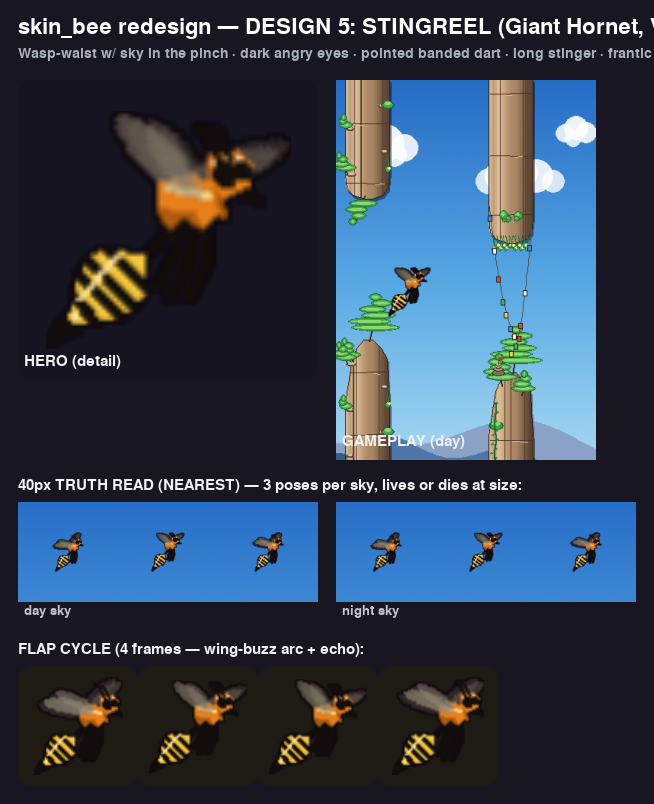
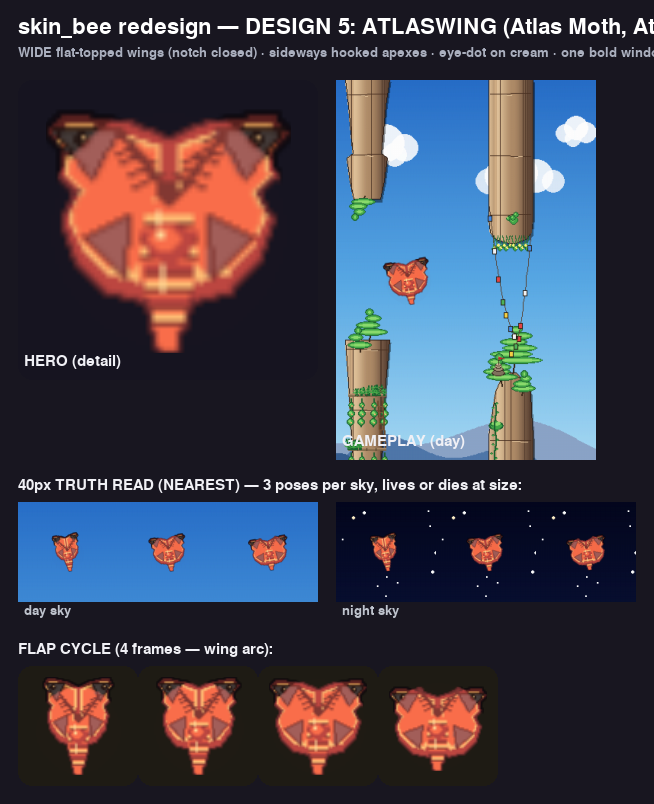
bug/bee butterfly R2: SUNSET MOTH + ATLASWING updates
Claude-Session: https://claude.ai/code/session_01K6KPJsdtoYoDR2za2Jqnmo

diff --git a/tools/bee_candidates/design_5.py b/tools/bee_candidates/design_5.py
@@ -1,12 +1,15 @@
 """BUG/INSECT redesign — design_5 ATLASWING (Atlas moth, Attacus atlas).
 
-The wings are the whole story. Two enormous ANGULAR sails fill the canvas
-wall-to-wall; each forewing apex hooks out into a pointed SNAKE-HEAD tip with a
-dark eye-dot — the Atlas moth's cobra-mimicry tell and the only jagged,
-non-rounded silhouette in the set. Big cream TRIANGULAR WINDOWS are punched
-semi-transparent so the day sky bleeds faintly through them (a technique unique
-to this candidate). A stout rust/ochre banded body and broad feathery comb
-antennae seat the read as a moth, not a butterfly.
+The wings are the whole story. Two WIDE ANGULAR sails spread horizontally,
+their leading edges rising to nearly meet along the top axis so the silhouette
+reads as one flat-topped moth — never two peaked "ears" over a head. Each
+forewing corner hooks out sideways into a pointed SNAKE-HEAD tip with a dark
+eye-dot riding a cream field — the Atlas moth's cobra-mimicry tell and the only
+jagged, non-rounded silhouette in the set. One bold cream TRIANGULAR WINDOW per
+wing is punched semi-transparent so the day sky bleeds through it. A deep-maroon
+outer margin wraps the whole edge for value pop on both bright and dark skies. A
+stout rust/ochre banded body and broad feathery comb antennae — swept clear of
+the wing junction — seat the read as a moth, not a butterfly.
 
 Scratch exploration only — NOT registered in store_skins.BUILDERS. Production
 art stays untouched until a winner is picked.
@@ -17,10 +20,10 @@ from game.parrot import _WING_ANGLES, _add_outline, _aaellipse
 
 COMPOSITE_W, COMPOSITE_H = 64, 84
 BCX, BCY = 32, 44          # thorax centre
-# Head kept ON the body axis: a dorsal-spread moth reads strongest symmetric,
-# and a centred head lets the two hooked forewings mirror cleanly at 40px.
-HCX, HCY = 32, 27
-CROWN_Y = 14
+# Head kept ON the body axis, but seated LOW (below where the two forewings
+# close flat at the top) so it can never read as a face between two ear-peaks.
+HCX, HCY = 32, 29
+CROWN_Y = 13
 
 # ── palette ──────────────────────────────────────────────────────────────────
 RUST   = (155, 74, 42)     # #9B4A2A Atlas Rust — DOMINANT wing field
@@ -30,7 +33,7 @@ CREAM  = (243, 230, 200)   # #F3E6C8 translucent triangular window panes
 DARK   = (36, 21, 18)      # #241512 snake-tip / eye-dot / body outline
 OCHRE_HI = (238, 190, 128) # warm highlight for the body gradient / catch-lights
 
-WINDOW_ALPHA = 100         # low enough that sky bleeds faintly through the panes
+WINDOW_ALPHA = 55          # low enough that sky visibly bleeds through the panes
 
 
 def _new():
@@ -44,36 +47,38 @@ def _flap(a):
 
 # Right-wing outer contour at the full-open down-stroke. Straight polygon
 # segments keep the whole outline ANGULAR — the deliberate non-rounded odd-one-
-# out of the set. The forewing throws its leading edge up and out to x=63 and
-# HOOKS: the apex spikes to a snake-head point (index 5) then cuts back under
-# itself, leaving a cobra-head silhouette that survives the shrink. The
-# hindwing below is large but still faceted, not an egg. Inner edges sit ~1px
-# off the body axis so the mirrored pair nearly touches into one moth.
+# out of the set. The leading edge rises to the TOP AXIS (index 0 sits on x=32,
+# high) so the mirrored pair closes into one flat-topped moth with no central
+# V-notch — that kills the fox/cat-face pareidolia. The forewing corner then
+# hooks SIDEWAYS to the widest point (index 4) and cuts back under itself
+# (index 5, a concave undercut), leaving a cobra-head apex. The hindwing below
+# is large but still faceted, not an egg.
 _WING_R = [
-    (33, 30),   # 0  inner top, ~1px off axis
-    (43, 20),   # 1  forewing leading edge
-    (47, 12),   # 2  leading rise
-    (55,  9),   # 3  toward the apex
-    (60,  8),   # 4  apex base — start of the hook
-    (63,  3),   # 5  SNAKE-HEAD TIP (eye-dot lands here)
-    (61, 11),   # 6  hook cuts back under itself
-    (58, 16),   # 7  forewing outer
-    (57, 23),   # 8  forewing trailing
-    (54, 28),   # 9  notch between fore- and hind-wing
-    (58, 34),   # 10 hindwing outer shoulder
-    (56, 45),   # 11 hindwing outer
-    (48, 55),   # 12 hindwing lower outer
-    (40, 58),   # 13 hindwing bottom lobe
-    (34, 51),   # 14 inner bottom
-    (33, 40),   # 15 inner mid, back to the axis
+    (32, 19),   # 0  inner top ON the axis, high — mirror closes flat here
+    (43, 15),   # 1  leading edge sweeps out nearly level
+    (53, 13),   # 2  toward the apex
+    (60, 13),   # 3  apex base
+    (63, 17),   # 4  SNAKE-HEAD TIP — hooks sideways to the widest point
+    (59, 21),   # 5  concave undercut back beneath the tip
+    (60, 27),   # 6  forewing trailing
+    (55, 31),   # 7  shallow notch between fore- and hind-wing
+    (59, 38),   # 8  hindwing outer shoulder
+    (56, 47),   # 9  hindwing outer
+    (48, 55),   # 10 hindwing lower outer
+    (39, 57),   # 11 hindwing bottom lobe
+    (34, 50),   # 12 inner bottom
+    (32, 33),   # 13 inner mid, back on the axis
 ]
 
-# Cream window triangles in the same right-wing space: one big pane in the
-# forewing, one in the hindwing. Punched semi-transparent so they read as gaps
-# in the wing where the sky shows through.
+# The snake-head eye rides HERE — a point that sits squarely inside the forewing
+# cream window so the dark pupil has cream contrast, not lost on the dark tip.
+_EYE_R = (55, 19)
+
+# One bold cream window per wing (fewer/bigger survives 40px). The forewing pane
+# reaches up to cradle the eye; the hindwing pane is a single clear triangle.
 _WINDOWS_R = [
-    [(44, 21), (55, 15), (50, 27)],   # forewing pane, pointing to the apex
-    [(43, 37), (53, 41), (44, 49)],   # hindwing pane
+    [(45, 16), (62, 16), (52, 28)],   # forewing pane — the eye rides this cream
+    [(42, 37), (55, 42), (44, 52)],   # hindwing pane
 ]
 
 
@@ -115,33 +120,36 @@ def _punch_windows(ws, tris):
     for tri in tris:
         pygame.draw.polygon(reducer, (255, 255, 255, WINDOW_ALPHA), tri)
     ws.blit(reducer, (0, 0), special_flags=pygame.BLEND_RGBA_MIN)
+    # A crisp 1px dark rim re-opaques each pane's border so the translucent panes
+    # stay defined windows instead of bleeding into the rust field at 40px.
+    for tri in tris:
+        pygame.draw.polygon(ws, DARK, tri, 1)
 
 
 def _draw_wing(surf, side, spread, nx):
     margin = _transform(_WING_R, side, spread, nx)
 
-    # Concentric rings = the Atlas moth's banding, but RUST has to dominate: a
-    # deep-maroon margin, then only a THIN ochre submarginal band, then the
-    # broad rust field that owns most of the wing. Windows punch that field.
+    # Concentric rings = the Atlas moth's banding. A WIDE deep-maroon outer
+    # margin now carries the whole edge dark (that's what holds the angular
+    # silhouette against BOTH bright day and dark night sky), then a thin ochre
+    # submarginal band, then the broad rust field. Windows punch that field.
     ws = _new()
     pygame.draw.polygon(ws, MAROON, margin)
-    pygame.draw.polygon(ws, OCHRE, _inset(margin, 0.07))
-    pygame.draw.polygon(ws, RUST, _inset(margin, 0.15))
+    pygame.draw.polygon(ws, OCHRE, _inset(margin, 0.13))
+    pygame.draw.polygon(ws, RUST, _inset(margin, 0.24))
 
     tris = [_transform(t, side, spread, nx) for t in _WINDOWS_R]
     _punch_windows(ws, tris)
     surf.blit(ws, (0, 0))
 
-    # The snake-head eye at the hooked apex sells the cobra mimicry — a cream
-    # sclera ring around a dark pupil with a warm catch, riding the transformed
-    # apex vertex so it tracks the hook through the flap.
-    ex, ey = margin[5]
+    # The snake-head eye sells the cobra mimicry — a dark pupil with a warm
+    # catch, sitting on the forewing CREAM field (transformed with the wing so
+    # it tracks the hook through the flap) for hard contrast at 40px.
+    ex, ey = _transform([_EYE_R], side, spread, nx)[0]
     ex, ey = int(round(ex)), int(round(ey))
-    cy = ey + 3
-    if 1 <= ex < COMPOSITE_W - 1 and 1 <= cy < COMPOSITE_H - 1:
-        pygame.draw.circle(surf, CREAM, (ex, cy), 3)
-        pygame.draw.circle(surf, DARK, (ex, cy), 2)
-        surf.set_at((ex, cy - 1), OCHRE_HI)
+    if 1 <= ex < COMPOSITE_W - 1 and 1 <= ey < COMPOSITE_H - 1:
+        pygame.draw.circle(surf, DARK, (ex, ey), 2)
+        surf.set_at((ex, ey - 1), OCHRE_HI)
 
 
 # Stout fusiform body: (y, half-width) keyframes, swelling at the thorax and
@@ -205,23 +213,24 @@ def _feather(surf, base, tip, teeth):
 
 
 def _draw_head(surf):
-    # Broad feathery antennae first, sweeping up and out to the crown.
-    _feather(surf, (HCX - 2, HCY - 2), (HCX - 10, CROWN_Y), 5)
-    _feather(surf, (HCX + 2, HCY - 2), (HCX + 10, CROWN_Y), 5)
-    # Small dark-rust head bead with two pin eyes and a warm catch.
-    pygame.draw.circle(surf, MAROON, (HCX, HCY), 4)
-    pygame.draw.circle(surf, DARK, (HCX - 2, HCY), 1)
-    pygame.draw.circle(surf, DARK, (HCX + 2, HCY), 1)
-    surf.set_at((HCX - 1, HCY - 2), OCHRE_HI)
+    # Feathery antennae swept OUT over the forewing shoulders — kept well clear
+    # of the wing junction so they can never read as ears above a face.
+    _feather(surf, (HCX - 2, HCY - 1), (HCX - 13, CROWN_Y), 5)
+    _feather(surf, (HCX + 2, HCY - 1), (HCX + 13, CROWN_Y), 5)
+    # A small DARK thorax knob — deliberately recessive (no pin eyes, no
+    # catch-light) so the two hooked apex eye-dots own the focal hierarchy
+    # instead of competing with a bright central "face" bead.
+    pygame.draw.circle(surf, DARK, (HCX, HCY), 3)
 
 
 def _apply_glow(surf):
-    # Faint warm halo so the rust pops on bright day sky. Additive and applied
-    # AFTER the outline so the outline traces only the crisp moth silhouette.
+    # A whisper of a halo — MAROON-tinted and low-alpha so it never cooks the
+    # earthy maroon into neon orange. The deep-maroon outer margin does the real
+    # silhouette-holding work; this only softens the edge against bright sky.
     glow = pygame.Surface(surf.get_size(), pygame.SRCALPHA)
-    for r, a in ((30, 6), (20, 7), (12, 7)):
+    for r, a in ((30, 3), (20, 3), (12, 4)):
         g = pygame.Surface((r * 2, r * 2), pygame.SRCALPHA)
-        pygame.draw.circle(g, (*RUST, a), (r, r), r)   # rust, not ochre — keep it warm-red not yellow
+        pygame.draw.circle(g, (*MAROON, a), (r, r), r)
         glow.blit(g, (BCX + 2 - r, BCY - 4 - r))   # +2 for _add_outline pad
     surf.blit(glow, (0, 0), special_flags=pygame.BLEND_RGBA_ADD)
 
@@ -229,7 +238,7 @@ def _apply_glow(surf):
 def _build_frame(wing_angle_deg):
     surf = _new()
     f = _flap(wing_angle_deg)
-    spread = int(f * 16)            # lift the wings as the stroke rises
+    spread = int(f * 11)            # lift the wings as the stroke rises (top-safe)
     nx = 1.0 - 0.28 * f             # narrow them toward edge-on on the up-stroke
 
     _draw_wing(surf, -1, spread, nx)

diff --git a/tools/bee_candidates/_render_design_5.py b/tools/bee_candidates/_render_design_5.py
@@ -15,7 +15,13 @@ from game import biome
 from game.draw import get_sky_surface_biome
 from game.config import W as GW, H as GH, GROUND_Y
 
-OUT = "/home/user/skybit/docs/store_redesign/animal/bee/design_5/round_1.png"
+OUT = "/home/user/skybit/docs/store_redesign/animal/bee/design_5/round_2.png"
+
+# Real, DISTINCT skies for the truth read: bright DAY vs genuinely dark NIGHT.
+# (R1 rendered both on the same blue because get_sky_surface_biome caches by the
+# phase-bucket arg and both panels passed bucket 0.)
+DAY_PHASE = 0.0
+NIGHT_PHASE = 0.64375   # the NIGHT keyframe — sky_top (5,8,30), truly dark
 
 # Three poses across the flap cycle so the truth read exposes whether the
 # hooked-wing silhouette survives BOTH the shrink and the wing animation.
@@ -35,7 +41,9 @@ def _truth_swatch(box, phase, frame_idx):
     NEAREST so the shrunk pixels are judgeable — the read the player gets. The
     translucent windows must show a hint of sky through them at this size."""
     pal = biome.palette_for_phase(phase)
-    sky = get_sky_surface_biome(GW, GH, GROUND_Y, pal, 0)
+    # Bucket the sky by phase so day and night get separate cache entries — the
+    # R1 bug was passing bucket 0 for both, which reused the day surface.
+    sky = get_sky_surface_biome(GW, GH, GROUND_Y, pal, biome.phase_bucket(phase))
     swatch = pygame.transform.smoothscale(
         sky.subsurface((0, 10, 120, 120)).copy(), (box, box))
     frame = _frame(build, frame_idx, 10.0)
@@ -78,9 +86,9 @@ def main():
     sheet = pygame.Surface((W, H))
     sheet.fill((24, 22, 32))
 
-    _label(sheet, "skin_bee redesign — DESIGN 5: ATLASWING (Atlas Moth, Attacus atlas) — R1",
+    _label(sheet, "skin_bee redesign — DESIGN 5: ATLASWING (Atlas Moth, Attacus atlas) — R2",
            PAD, 16, sz=22, col=(255, 255, 255))
-    _label(sheet, "Angular snake-head hooked forewings · dark eye-dot tips · semi-transparent cream windows · banded rust body · feathery comb antennae",
+    _label(sheet, "WIDE flat-topped wings (notch closed) · sideways hooked apexes · eye-dot on cream · one bold window/wing · wide maroon margin · recessive body knob",
            PAD, 46, sz=13, col=(170, 175, 190))
 
     top = 80
@@ -95,10 +103,10 @@ def main():
     _label(sheet, "40px TRUTH READ (NEAREST) — 3 poses per sky, lives or dies at size:",
            PAD, trow - 24, sz=15)
     for i, fi in enumerate(TRUTH_POSES):
-        sheet.blit(_truth_swatch(TR, 0.0, fi), (PAD + i * TR, trow))
+        sheet.blit(_truth_swatch(TR, DAY_PHASE, fi), (PAD + i * TR, trow))
     night_x = PAD + 3 * TR + PAD
     for i, fi in enumerate(TRUTH_POSES):
-        sheet.blit(_truth_swatch(TR, 0.5, fi), (night_x + i * TR, trow))
+        sheet.blit(_truth_swatch(TR, NIGHT_PHASE, fi), (night_x + i * TR, trow))
     _label(sheet, "day sky", PAD + 6, trow + TR + 2, sz=13, col=(190, 195, 205))
     _label(sheet, "night sky", night_x + 6, trow + TR + 2, sz=13, col=(190, 195, 205))
 

diff --git a/tools/bee_candidates/design_2.py b/tools/bee_candidates/design_2.py
@@ -70,6 +70,12 @@ _WING_R = [
     (36, 46),   # 10 scallop lobe C tip
     (34, 43),   # 11 inner bottom, ~2px off the body axis
 ]
+# The rainbow ribbons arc across the CONVEX upper contour only (inner-top →
+# forewing apex → outer shoulder → hindwing shoulder). Stroking an open arc here
+# keeps each band a clean thin line; stroking the whole polygon would fill the
+# concave scalloped notches solid. The scalloped hindwing bottom stays pure
+# obsidian, so black dominates and the cream fringe reads against it.
+BAND_ARC = (0, 1, 2, 3, 4, 5)
 # Trailing scallop margin the cream fringe traces (hindwing shoulder → inner).
 FRINGE_IDX = range(5, 12)
 
@@ -115,19 +121,21 @@ def _draw_wing(surf, side, spread, nx, fi):
     margin = _transform(_WING_R, side, spread, nx)
 
     # Obsidian OWNS the wing: the whole face is filled black, then only three
-    # SLIM iridescent ribbons are STROKED along inset copies of the wing
-    # contour. A width-2 polygon outline gives a uniformly thin arc that hugs the
-    # wing curve at a fixed inset — so the ribbon never fattens on the compact
-    # hindwing (the filled-ring trap) and never touches the wing edge, leaving a
-    # fat black margin and a fat black core. A small per-frame drift breathes the
-    # ribbons outward and in.
+    # SLIM iridescent ribbons are STROKED as open arcs along inset copies of the
+    # convex upper contour (see BAND_ARC). A width-2 open polyline gives a
+    # uniformly thin arc that hugs the wing curve at a fixed inset — never
+    # fattening on the compact hindwing and never touching the wing edge, so a
+    # fat black margin and the whole scalloped hindwing stay black. A small
+    # per-frame drift breathes the ribbons outward and in.
     drift = (fi - 1.5) * 0.02
     centers = [0.40 + drift, 0.53 + drift, 0.66 + drift]
     bands = _bands_for(fi)
 
     pygame.draw.polygon(surf, OBSIDIAN, margin)
     for c, col in zip(centers, bands):
-        pygame.draw.polygon(surf, col, _inset(margin, c), 2)
+        ring = _inset(margin, c)
+        arc = [(int(ring[i][0]), int(ring[i][1])) for i in BAND_ARC]
+        pygame.draw.lines(surf, col, False, arc, 2)
 
     # Per-frame polychrome shimmer rides the OUTER ribbon, not the wing core, so
     # the centre stays black: two soft ellipses in the frame's brightened lead
